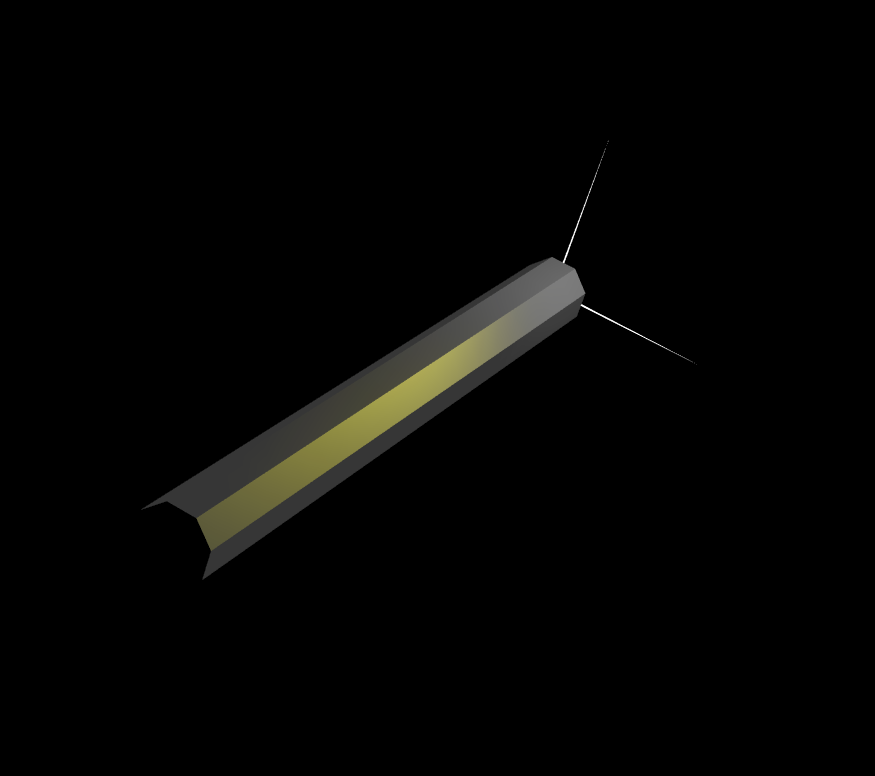
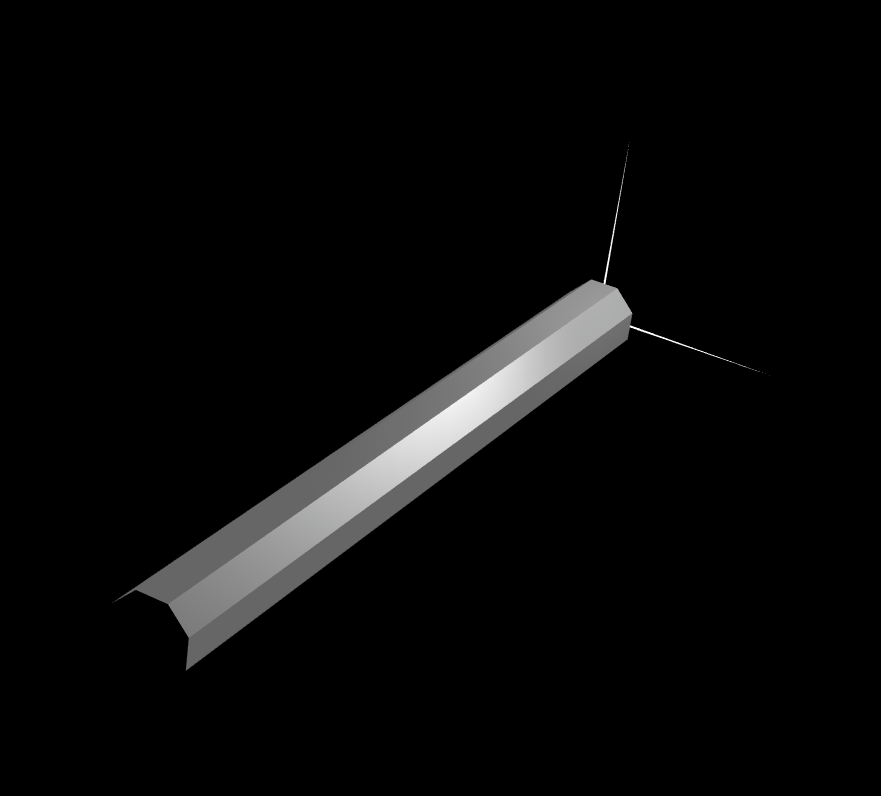
Changed light and new screenshot

Changed region(s): [[0.1543, 0.3093, 0.7714, 0.8351], [0.7714, 0.433, 0.8023, 0.4639], [0.6789, 0.2165, 0.7097, 0.2474]]

diff --git a/3/tp3/LightingScene.js b/3/tp3/LightingScene.js
@@ -66,7 +66,7 @@ class LightingScene extends CGFscene
 
 	initLights()
 	{
- 		this.setGlobalAmbientLight(0,0,0, 1.0);
+ 		this.setGlobalAmbientLight(1, 1, 1, 1.0);
 
 		// Positions for four lights
 		this.lights[0].setPosition(4, 6, 1, 1);
@@ -82,7 +82,7 @@ class LightingScene extends CGFscene
 		*/
 		this.lights[0].setAmbient(1, 1, 1, 1);
 		this.lights[0].setDiffuse(1.0, 1.0, 1.0, 1.0);
-		this.lights[0].setSpecular(1.0,1.0,0,1.0);
+		this.lights[0].setSpecular(1.0, 1.0, 1.0, 1.0);
 		this.lights[0].enable(); //Material A
 		/*
 		this.lights[1].setAmbient(0, 0, 0, 1);
